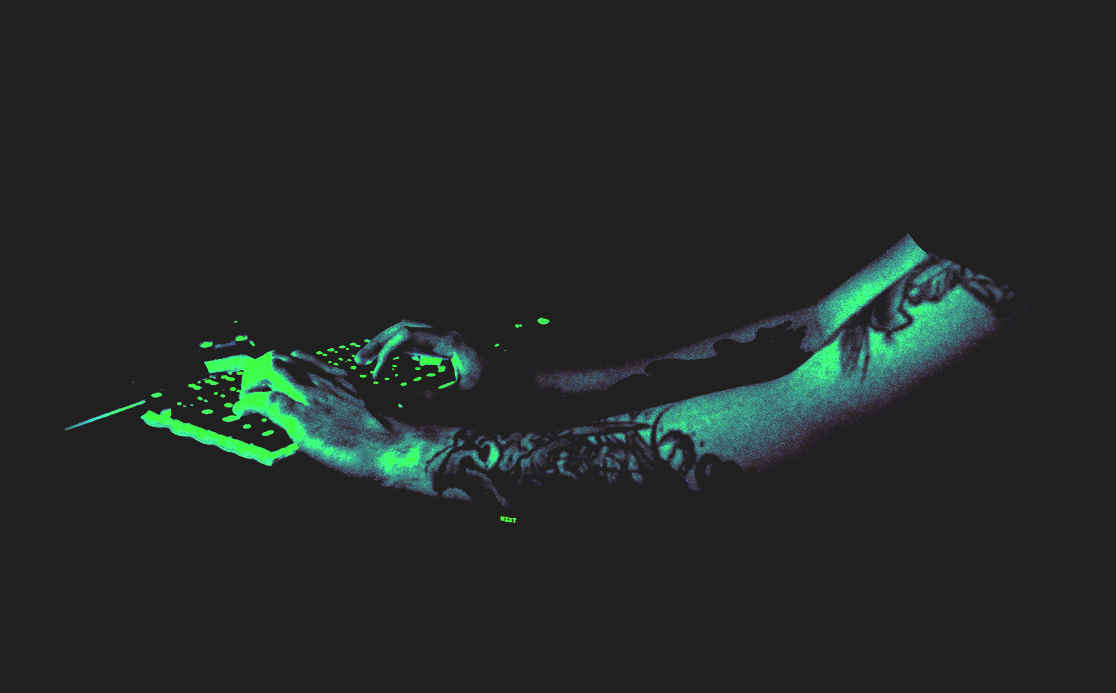
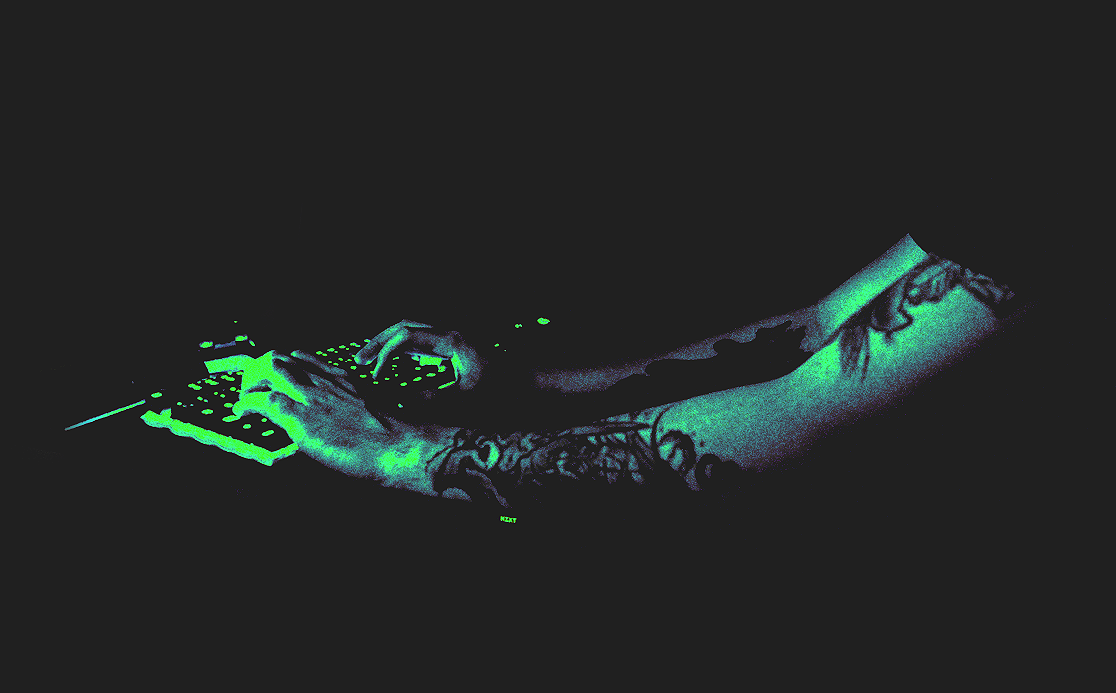
fix responsive hero bg

diff --git a/src/sections/intro.js b/src/sections/intro.js
@@ -8,30 +8,48 @@ const StyledIntro = styled.section`
   height: auto;
   background-color: ${theme.colors.secondary};
 
-  background-image: url("/hero-mobile.png");
-  background-size: 120%;
-  background-position: left 480px;
+  background-image: url("/keyboard.png");
+  background-size: 400px;
+  background-position: left 50%;
   background-repeat: no-repeat;
   padding-top: 190px;
   padding-bottom: 100px;
 
   ${theme.mediaQueries.xs} {
-    background-size: 120%;
-    background-position: left 300px;
+    background-size: 600px;
+    background-position: center 55%;
     background-repeat: no-repeat;
   }
 
   ${theme.mediaQueries.sm} {
     height: 100%;
-    background-image: url("/hero.png");
-    background-size: cover;
-    background-position: center;
+    background-image: url("/keyboard.png");
+    background-size: 800px;
+    background-position: bottom right;
     padding-top: unset;
     padding-bottom: unset;
 
     display: flex;
     justify-content: start;
     align-items: center;
+  }
+
+  ${theme.mediaQueries.md} {
+    background-size: 800px;
+    background-position-y: 100%;
+  }
+
+  ${theme.mediaQueries.lg} {
+    background-size: 900px;
+  }
+
+  ${theme.mediaQueries.xl} {
+    background-size: 1009px;
+    background-position-x: 80%;
+  }
+
+  ${theme.mediaQueries.xxl} {
+    background-position-x: 80%;
   }
 `
 const Content = styled.div`
@@ -41,15 +59,15 @@ const Content = styled.div`
 const Item = styled.div`
   flex: 0 1 100%;
 
-  ${theme.mediaQueries.sm} {
+  /* ${theme.mediaQueries.sm} {
     flex: 0 1 51%;
-  }
+  } */
 `
 
 const Intro = () => {
   return (
     <StyledIntro>
-      <Orb />
+      {/* <Orb /> */}
       <Container>
         <Nav />
         <Content>
@@ -89,6 +107,7 @@ const Intro = () => {
               visuales que hacen que la experiencia de una plataforma web sea mas audaz e intuitiva.
             </Text>
             <Social marginTop={{ _: `${theme.space.big}px`, sm: `${theme.space.colossus * 2}px` }} />
+            {/* <img src='/keyboard.png' alt='dann' width='100%' /> */}
           </Item>
         </Content>
       </Container>

diff --git a/src/components/dann.js b/src/components/dann.js
@@ -1,0 +1,9 @@
+import React from "react"
+import styled from "styled-components"
+import {} from "framer-motion"
+
+const Dann = () => {
+  return <div></div>
+}
+
+export default Dann
